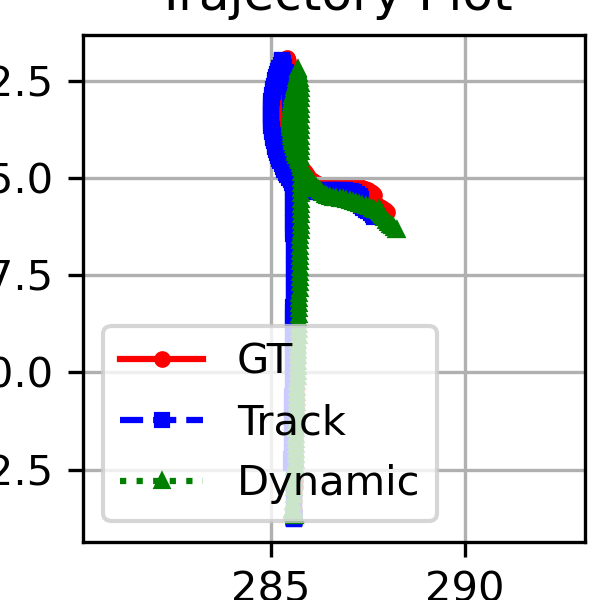
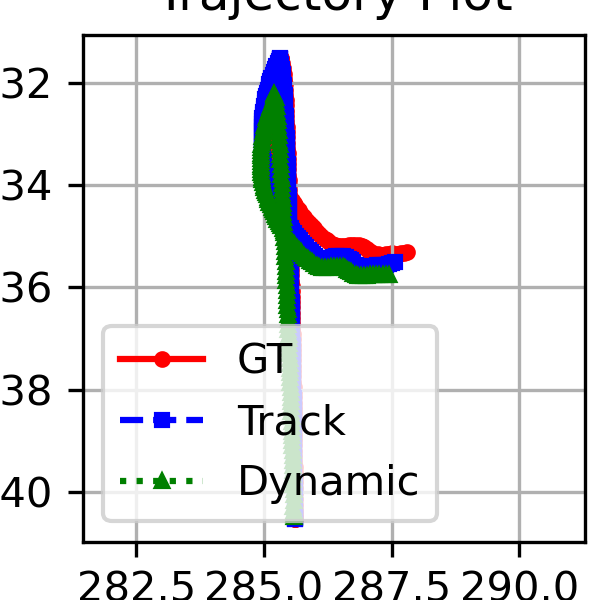
My changes from detached HEAD

diff --git a/agents/navigation/controller.py b/agents/navigation/controller.py
@@ -291,51 +291,84 @@ class PIDLateralController:
         """Changes the offset"""
         self._offset = offset
 
-    def _pid_control(self, waypoint, vehicle_transform):
+    def _pid_control(self, target_wp, vehicle_transform):
         """
-        Estimate the steering angle of the vehicle based on the PID equations
+        Lateral PID controller: returns steering in [-1, 1].
 
-            :param waypoint: target waypoint
-            :param vehicle_transform: current transform of the vehicle
-            :return: steering control in the range [-1, 1]
+        Respects:
+        - self._offset (meters): lateral shift along waypoint right-vector
+        - self._k_p, self._k_i, self._k_d
+        - self._dt
+        - optional: self._use_wp_heading (bool), self._alpha in [0,1]
+            _alpha = 0.0 -> pure vector-to-waypoint (default)
+            _alpha = 1.0 -> pure waypoint heading
+            in-between -> blend
+        - optional: self._i_clamp (float) to limit integral term magnitude
         """
-        # Get the ego's location and forward vector
-        ego_loc = vehicle_transform.location
-        v_vec = vehicle_transform.get_forward_vector()
-        v_vec = np.array([v_vec.x, v_vec.y, 0.0])
 
-        # Get the vector vehicle-target_wp
-        if self._offset != 0:
-            # Displace the wp to the side
-            w_tran = waypoint.transform
-            r_vec = w_tran.get_right_vector()
-            w_loc = w_tran.location + carla.Location(x=self._offset*r_vec.x,
-                                                         y=self._offset*r_vec.y)
+        # --- 1) Get a carla.Transform from either a Waypoint or your SimpleNamespace ---
+        tf = getattr(target_wp, "transform", target_wp)
+
+        # --- 2) Ego forward unit vector (XY) ---
+        v_fwd = vehicle_transform.get_forward_vector()
+        v = np.array([v_fwd.x, v_fwd.y], dtype=np.float64)
+        v /= (np.linalg.norm(v) + 1e-9)
+
+        # --- 3) Target location with optional lateral offset along waypoint right-vector ---
+        if getattr(self, "_offset", 0.0) != 0.0:
+            r_vec = tf.get_right_vector()
+            w_loc = tf.location + carla.Location(
+                x=self._offset * r_vec.x,
+                y=self._offset * r_vec.y
+            )
         else:
-            w_loc = waypoint.location
+            w_loc = target_wp.location
 
-        w_vec = np.array([w_loc.x - ego_loc.x,
-                          w_loc.y - ego_loc.y,
-                          0.0])
+        # --- 4) Build candidate target directions (unit vectors in XY) ---
+        # 4a) Vector from ego to (possibly offset) waypoint
+        dx = w_loc.x - vehicle_transform.location.x
+        dy = w_loc.y - vehicle_transform.location.y
+        vec_to_wp = np.array([dx, dy], dtype=np.float64)
+        vec_to_wp /= (np.linalg.norm(vec_to_wp) + 1e-9)
 
-        wv_linalg = np.linalg.norm(w_vec) * np.linalg.norm(v_vec)
-        if wv_linalg == 0:
-            _dot = 1
+        # 4b) Waypoint heading
+        yaw_wp = math.radians(target_wp.rotation.yaw)
+        wp_heading = np.array([math.cos(yaw_wp), math.sin(yaw_wp)], dtype=np.float64)
+
+        # --- 5) Select/blend target vector ---
+        use_wp_heading = getattr(self, "_use_wp_heading", True)
+        alpha = float(getattr(self, "_alpha", 0.0))
+        alpha = min(max(alpha, 0.0), 1.0)
+
+        if use_wp_heading and alpha >= 1.0 - 1e-9:
+            t = wp_heading
+        elif not use_wp_heading and alpha <= 1.0 + 1e-9:
+            t = vec_to_wp
         else:
-            _dot = math.acos(np.clip(np.dot(w_vec, v_vec) / (wv_linalg), -1.0, 1.0))
-        _cross = np.cross(v_vec, w_vec)
-        if _cross[2] < 0:
-            _dot *= -1.0
+            t = alpha * wp_heading + (1.0 - alpha) * vec_to_wp
+            t /= (np.linalg.norm(t) + 1e-9)
 
-        self._e_buffer.append(_dot)
+        # --- 6) Signed heading error using atan2(cross_z, dot) ---
+        cross_z = v[0] * t[1] - v[1] * t[0]
+        dot     = v[0] * t[0] + v[1] * t[1]
+        e = math.atan2(cross_z, dot)  # radians in (-pi, pi]
+
+        # --- 7) PID terms (with simple guards) ---
+        dt = max(getattr(self, "_dt", 0.05), 1e-3)
+        self._e_buffer.append(e)
         if len(self._e_buffer) >= 2:
-            _de = (self._e_buffer[-1] - self._e_buffer[-2]) / self._dt
-            _ie = sum(self._e_buffer) * self._dt
+            de = (self._e_buffer[-1] - self._e_buffer[-2]) / dt
+            ie = sum(self._e_buffer) * dt
         else:
-            _de = 0.0
-            _ie = 0.0
+            de, ie = 0.0, 0.0
 
-        return np.clip((self._k_p * _dot) + (self._k_d * _de) + (self._k_i * _ie), -1.0, 1.0)
+        # Optional integral clamp to avoid windup (set self._i_clamp, e.g. 0.5)
+        i_clamp = getattr(self, "_i_clamp", None)
+        if i_clamp is not None:
+            ie = float(np.clip(ie, -abs(i_clamp), abs(i_clamp)))
+
+        steer = (self._k_p * e) + (self._k_d * de) + (self._k_i * ie)
+        return float(np.clip(steer, -1.0, 1.0))
 
     def change_parameters(self, K_P, K_I, K_D, dt):
         """Changes the PID parameters"""

diff --git a/agent/parking_agent.py b/agent/parking_agent.py
@@ -329,11 +329,11 @@ class ParkingAgent:
         self.gt_traj =[]
         self.track_traj = []
         self.dynamic_traj = []
-        self.final_steps = False
+        self.final_steps = 0
 
         # Create the PID controller
-        args_lateral = {'K_P': 1.0, 'K_I': 0.0, 'K_D': 0.0}
-        args_longitudinal = {'K_P': 1.0, 'K_I': 0.0, 'K_D': 0.0}
+        args_lateral = {'K_P': 0.5, 'K_I': 0.0, 'K_D': 0.0}
+        args_longitudinal = {'K_P': 0.5, 'K_I': 0.0, 'K_D': 0.0}
         self.pid_controller = VehiclePIDController(self.player, args_lateral=args_lateral, args_longitudinal=args_longitudinal)
 
         self.car_icon = Image.open("./car.png").convert("RGBA")
@@ -466,7 +466,7 @@ class ParkingAgent:
         self.gt_traj =[]
         self.track_traj = []
         self.dynamic_traj = []
-        self.final_steps = False
+        self.final_steps = 0
 
 
     def save_atten_avg_map(self, data):
@@ -603,18 +603,57 @@ class ParkingAgent:
                         target_tf = self.make_target_transform(0.3, waypoint[0], waypoint[1], waypoint[2])
                         target_tf = types.SimpleNamespace(transform=target_tf)
 
+
+                        location = carla.Location(x=waypoint[0], y=waypoint[1], z=3.0)
+
+                        yaw_deg = waypoint[2]      # If you store yaw in degrees
+                        arrow_length = 1.0         # meters
+                        life_time = 0.1            # seconds
+
+                        # Convert yaw to a forward direction vector
+                        yaw_rad = math.radians(yaw_deg)
+                        dx = math.cos(yaw_rad) * arrow_length
+                        dy = math.sin(yaw_rad) * arrow_length
+
+                        start_loc = location
+                        end_loc = carla.Location(
+                            x=location.x + dx,
+                            y=location.y + dy,
+                            z=location.z
+                        )
+
+                        # Draw arrow
+                        if 1:
+                            self.world._world.debug.draw_arrow(
+                                start_loc,
+                                end_loc,
+                                thickness=0.1,
+                                arrow_size=0.3,
+                                color=carla.Color(0, 255, 0),
+                                life_time=life_time
+                            )
+
                         # carla_map = self.world.get_map()
-                        location = carla.Location(x=waypoint[0], y=waypoint[1], z=0.3)
+                        # location = carla.Location(x=waypoint[0], y=waypoint[1], z=0.3)
                         # self.world._world.debug.draw_point(location, size=0.1, color=carla.Color(255, 0, 0), lifetime=0.2)
-                        self.world._world.debug.draw_string(location, '{}'.format(i + 1), draw_shadow=True, color=carla.Color(255, 0, 0))
+                        # self.world._world.debug.draw_string(location, '{}'.format(i + 1), draw_shadow=True, color=carla.Color(255, 0, 0))
                         self.buffered_traj.append(target_tf)
-                self.final_steps = True if abs(waypoint[0] - self.net_eva.eva_parking_goal[0]) < 2 and abs(waypoint[1] - self.net_eva.eva_parking_goal[1]) < 2 else False
+
+                goal_x, goal_y, goal_z = self.net_eva.eva_parking_goal
+                self.final_steps = 0
+                for tf in self.buffered_traj:
+                    loc = tf.transform.location
+                    dist = math.sqrt((loc.x - goal_x)**2 +
+                                    (loc.y - goal_y)**2)
+                    if dist <= 2.0:
+                        self.final_steps += 1
+
             self.prev_xy_thea = [vehicle_transform.location.x,
                                  vehicle_transform.location.y,
                                  imu_data.compass if np.isnan(imu_data.compass) else 0]
 
-        idx_in_curr_loop = 6 # self.step % self.process_frequency + 1
-        control = self.pid_controller.run_step(target_speed=5.0, waypoint=self.buffered_traj[idx_in_curr_loop])
+        idx_in_curr_loop = 4 # self.step % self.process_frequency + 1
+        control = self.pid_controller.run_step(target_speed=4.0, waypoint=self.buffered_traj[idx_in_curr_loop])
         self.player.apply_control(control)
 
     def make_target_transform(self, world_z, x, y, yaw_deg):

diff --git a/model/parking_model.py b/model/parking_model.py
@@ -460,7 +460,7 @@ class ParkingModelDiffusion(nn.Module):
 
         return pred_control, pred_waypoint
         
-    def predict(self, data, final_steps = False):
+    def predict(self, data, final_steps = 0):
         fuse_feature, pred_segmentation, pred_depth, bev_target = self.encoder(data)
 
         if self.cfg.normalize_traj:
@@ -486,8 +486,8 @@ class ParkingModelDiffusion(nn.Module):
             start_end_relative_point = torch.cat((start_relative_point, end_relative_point), dim=1)
         else:
             start_end_relative_point = start_relative_point
-            if final_steps:
-                start_end_relative_point = torch.cat((start_relative_point, end_relative_point), dim=1)
+            if final_steps != 0:
+                start_end_relative_point = torch.cat((start_relative_point, end_relative_point.repeat(1, final_steps, 1)), dim=1)
         # start_end_relative_point = torch.cat((start_relative_point, end_relative_point), dim=1)
         # torch.cat((data["gt_target_point_traj"][:,0:1,:], data["gt_target_point_traj"][:,-1:,:]), dim=1)
         if self.cfg.motion_head == "embedding":

diff --git a/diffuser/models/helpers.py b/diffuser/models/helpers.py
@@ -88,8 +88,8 @@ def cosine_beta_schedule(timesteps, s=0.008, dtype=torch.float32):
 
 def apply_conditioning(x, conditions, action_dim):
     x[:,0,:] = conditions[:,0,:] 
-    if conditions.shape[1] == 2:
-        x[:,-1,:] = conditions[:,-1,:] 
+    if conditions.shape[1] >= 2:
+        x[:,-(conditions.shape[1]-1):,:] = conditions[:,-(conditions.shape[1]-1):,:] 
     return x
 
 def _check_times(times, t_0, t_T):
